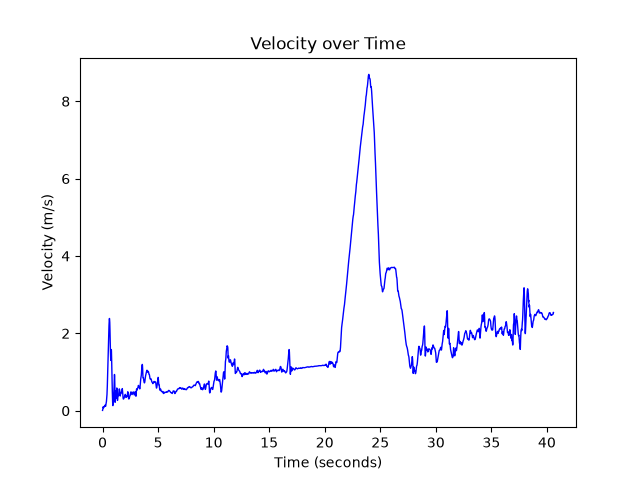
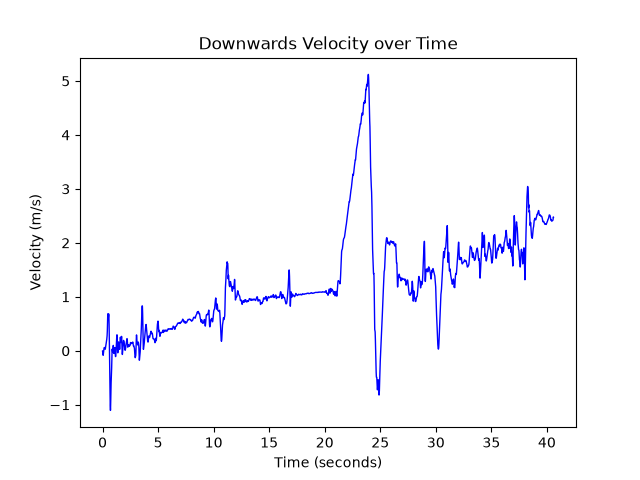
Revert to vertical only

diff --git a/src/main.py b/src/main.py
@@ -30,58 +30,39 @@ def rotate_all():
 
 def integrate():
     rotated = rotate_all()
-    # velocity = rotated[:, -2] # -1, -2 works
+    vertical = rotated[:, -1]
+    # print(vertical)
+    velocity = cumtrapz(vertical) * 0.01
 
-    to_find = [rotated[:, -3], rotated[:, -2], rotated[:, -1]]
-    v_t_x_table, v_t_y_table, v_t_z_table = [], [], []
-    active_table = v_t_x_table
-    counter = 0
+    v_t_table = []
 
-    for velo in to_find:
-        velocity = cumtrapz(velo) * 0.01
+    i = 0
+    for j in velocity:
+        arr =[i * 0.01, j]
+        v_t_table.append(arr)
+        i += 1
 
-        i = 0
-        for j in velocity:
-            arr = [i * 0.01, j]
-            active_table.append(arr)
-            i += 1
-
-        active_table = np.array(active_table)
-        time = active_table[:, 0]
-        velocity = active_table[:, 1]
-        if (counter == 0):
-            active_table = v_t_y_table
-        else:
-            active_table = v_t_z_table
-        counter += 1
-
-    return np.array(v_t_x_table)[:, 1], np.array(v_t_y_table)[:, 1], np.array(v_t_z_table)[:, 1], time
+    v_t_table = np.array(v_t_table)
+    time = v_t_table[:, 0]
+    velocity = v_t_table[:, 1]
+    return velocity, time
 
 def graph(vt):
-    velo_x, velo_y, velo_z, time = vt
-    resultants = np.zeros(len(velo_z))
-
-    for i in range(len(velo_z)):
-        resultants[i] = np.sqrt(velo_x[i]**2 + velo_y[i]**2 + velo_z[i]**2)
-
-    plt.plot(time, resultants, label="Velocity", color="blue", linewidth=1)
+    velocity, time = vt
+    plt.plot(time, velocity, label="Velocity", color="blue", linewidth=1)
     plt.xlabel("Time (seconds)")
     plt.ylabel("Velocity (m/s)")
-    plt.title("Velocity over Time")
+    plt.title("Downwards Velocity over Time")
     plt.savefig(PATH + "out/run-" + OBJECT + str(RUN))
     plt.show()
 
 # Go to middle of slope and fetch gradient
 def find_slope_midsect(vt):
-    velo_x, velo_y, velo_z, time = vt
-    velo = np.zeros(len(velo_z))
-
-    for i in range(len(velo_z)):
-        velo[i] = np.sqrt(velo_x[i]**2 +  velo_y[i]**2 + velo_z[i]**2)
+    velo, time = vt
     diff = np.diff(velo)
     peak = np.argmax(velo)
     baseline = np.median(velo[(peak - 350):(peak - 250)])
-    slope = velo[peak] - baseline
+    slope = velo[peak] -  baseline
 
     low = baseline + slope * 0.2
     high = baseline + slope * 0.9
@@ -91,7 +72,7 @@ def find_slope_midsect(vt):
     for i in range(peak):
         if velo[i] <= low:
             i_lo = i
-        if velo[i] <= high:
+        if velo[i] >= high:
             i_hi = i
 
     ramp_t, ramp_v = [], []
